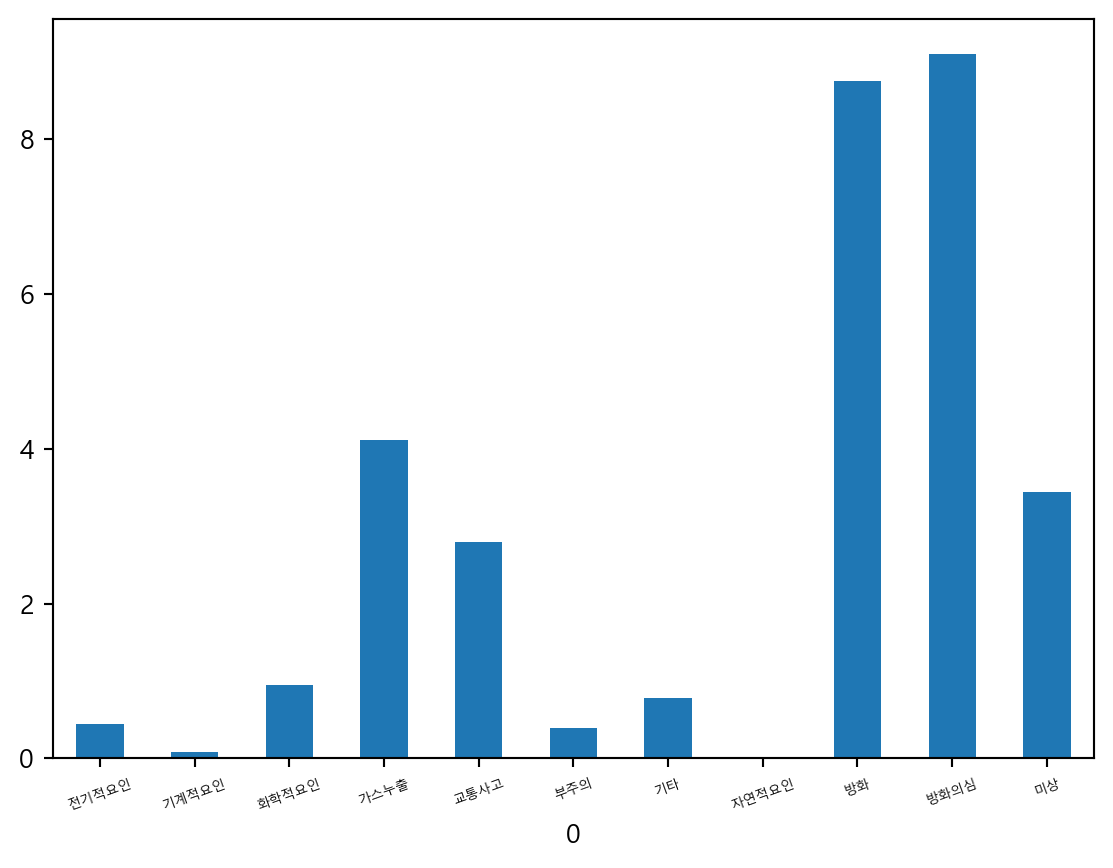
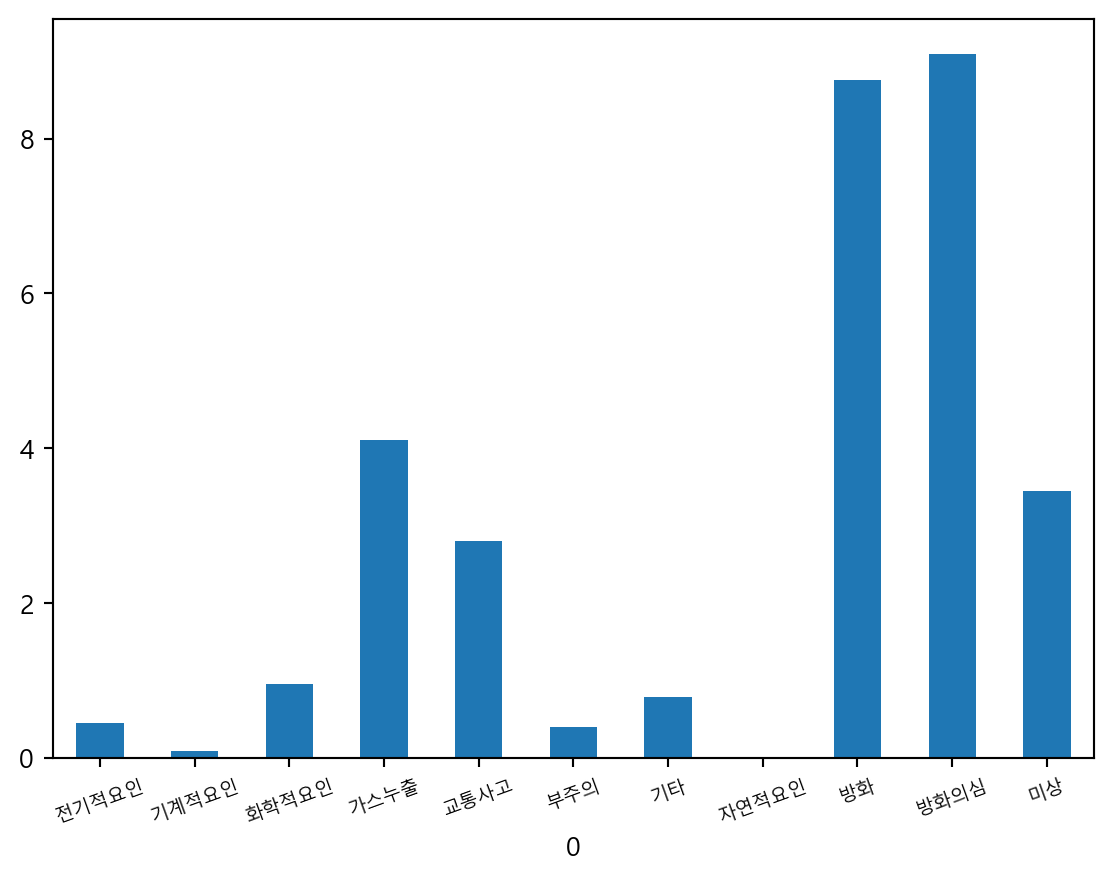
update

diff --git a/docs/fire_presentation.html b/docs/fire_presentation.html
@@ -213,7 +213,7 @@ pre > code.sourceCode > span > a:first-child::before { text-decoration: underlin
 <h2 class="anchored" data-anchor-id="계절별-화재발생-빈도">1. 계절별 화재발생 빈도</h2>
 <section id="section" class="level3">
 <h3 class="anchored" data-anchor-id="section">&lt;데이터 설명&gt;</h3>
-<div id="9fbafc4d" class="cell" data-execution_count="1">
+<div id="92201002" class="cell" data-execution_count="1">
 <div class="sourceCode cell-code" id="cb1"><pre class="sourceCode python code-with-copy"><code class="sourceCode python"><span id="cb1-1"><a href="#cb1-1" aria-hidden="true" tabindex="-1"></a><span class="im">import</span> pandas <span class="im">as</span> pd</span>
 <span id="cb1-2"><a href="#cb1-2" aria-hidden="true" tabindex="-1"></a><span class="im">import</span> numpy <span class="im">as</span> np</span>
 <span id="cb1-3"><a href="#cb1-3" aria-hidden="true" tabindex="-1"></a>df <span class="op">=</span> pd.read_csv(<span class="st">"data/fire.csv"</span>)</span>
@@ -384,7 +384,7 @@ pre > code.sourceCode > span > a:first-child::before { text-decoration: underlin
 <ul>
 <li>연도별로 분리</li>
 </ul>
-<div id="a6cad722" class="cell" data-execution_count="2">
+<div id="78e49982" class="cell" data-execution_count="2">
 <div class="sourceCode cell-code" id="cb2"><pre class="sourceCode python code-with-copy"><code class="sourceCode python"><span id="cb2-1"><a href="#cb2-1" aria-hidden="true" tabindex="-1"></a>data_2020 <span class="op">=</span> df[[<span class="st">'항목'</span>] <span class="op">+</span> df.<span class="bu">filter</span>(like<span class="op">=</span><span class="st">'2020'</span>).columns.tolist()]</span>
 <span id="cb2-2"><a href="#cb2-2" aria-hidden="true" tabindex="-1"></a></span>
 <span id="cb2-3"><a href="#cb2-3" aria-hidden="true" tabindex="-1"></a>data_2021 <span class="op">=</span> df[[<span class="st">'항목'</span>] <span class="op">+</span> df.<span class="bu">filter</span>(like<span class="op">=</span><span class="st">'2021'</span>).columns.tolist()]</span>
@@ -512,7 +512,7 @@ pre > code.sourceCode > span > a:first-child::before { text-decoration: underlin
 <ul>
 <li>2022년의 제품결함 열 삭제</li>
 </ul>
-<div id="bf269909" class="cell" data-execution_count="3">
+<div id="4e2928d1" class="cell" data-execution_count="3">
 <div class="sourceCode cell-code" id="cb3"><pre class="sourceCode python code-with-copy"><code class="sourceCode python"><span id="cb3-1"><a href="#cb3-1" aria-hidden="true" tabindex="-1"></a>data_2022 <span class="op">=</span> data_2022.drop(columns <span class="op">=</span> <span class="st">"2022.11"</span>)</span>
 <span id="cb3-2"><a href="#cb3-2" aria-hidden="true" tabindex="-1"></a>data_2022.head()</span></code><button title="Copy to Clipboard" class="code-copy-button"><i class="bi"></i></button></pre></div>
 <div class="cell-output cell-output-display" data-execution_count="3">
@@ -629,7 +629,7 @@ pre > code.sourceCode > span > a:first-child::before { text-decoration: underlin
 <ul>
 <li>0번째 행을 column으로 지정</li>
 </ul>
-<div id="b50230e3" class="cell" data-execution_count="4">
+<div id="05d2f780" class="cell" data-execution_count="4">
 <div class="sourceCode cell-code" id="cb4"><pre class="sourceCode python code-with-copy"><code class="sourceCode python"><span id="cb4-1"><a href="#cb4-1" aria-hidden="true" tabindex="-1"></a>data_2020.columns <span class="op">=</span> data_2020.iloc[<span class="dv">0</span>] </span>
 <span id="cb4-2"><a href="#cb4-2" aria-hidden="true" tabindex="-1"></a></span>
 <span id="cb4-3"><a href="#cb4-3" aria-hidden="true" tabindex="-1"></a>data_2021.columns <span class="op">=</span> data_2021.iloc[<span class="dv">0</span>] </span>
@@ -751,7 +751,7 @@ pre > code.sourceCode > span > a:first-child::before { text-decoration: underlin
 <ul>
 <li>0행, 1행 삭제 후 인덱스 초기화</li>
 </ul>
-<div id="e8a2680b" class="cell" data-execution_count="5">
+<div id="e713154d" class="cell" data-execution_count="5">
 <div class="sourceCode cell-code" id="cb5"><pre class="sourceCode python code-with-copy"><code class="sourceCode python"><span id="cb5-1"><a href="#cb5-1" aria-hidden="true" tabindex="-1"></a>data_2020 <span class="op">=</span> data_2020[<span class="dv">2</span>:]</span>
 <span id="cb5-2"><a href="#cb5-2" aria-hidden="true" tabindex="-1"></a>data_2020 <span class="op">=</span> data_2020.reset_index(drop<span class="op">=</span><span class="va">True</span>)</span>
 <span id="cb5-3"><a href="#cb5-3" aria-hidden="true" tabindex="-1"></a></span>
@@ -876,7 +876,7 @@ pre > code.sourceCode > span > a:first-child::before { text-decoration: underlin
 <ul>
 <li>데이터타입이 object로 되어 있음</li>
 </ul>
-<div id="e873439f" class="cell" data-execution_count="6">
+<div id="d3b2feac" class="cell" data-execution_count="6">
 <div class="sourceCode cell-code" id="cb6"><pre class="sourceCode python code-with-copy"><code class="sourceCode python"><span id="cb6-1"><a href="#cb6-1" aria-hidden="true" tabindex="-1"></a>data_2022.info()</span></code><button title="Copy to Clipboard" class="code-copy-button"><i class="bi"></i></button></pre></div>
 <div class="cell-output cell-output-stdout">
 <pre><code>&lt;class 'pandas.core.frame.DataFrame'&gt;
@@ -905,7 +905,7 @@ memory usage: 1.3+ KB</code></pre>
 <ul>
 <li>for문을 사용해 데이터타입을 int로 변경</li>
 </ul>
-<div id="0608bfc2" class="cell" data-execution_count="7">
+<div id="eae44d75" class="cell" data-execution_count="7">
 <div class="sourceCode cell-code" id="cb8"><pre class="sourceCode python code-with-copy"><code class="sourceCode python"><span id="cb8-1"><a href="#cb8-1" aria-hidden="true" tabindex="-1"></a>columns_to_convert <span class="op">=</span> [<span class="st">'계'</span>, <span class="st">'전기적요인'</span>, <span class="st">'기계적요인'</span>,</span>
 <span id="cb8-2"><a href="#cb8-2" aria-hidden="true" tabindex="-1"></a>                <span class="st">'화학적요인'</span>, <span class="st">'가스누출'</span>, <span class="st">'교통사고'</span>, <span class="st">'부주의'</span>, <span class="st">'기타'</span>,</span>
 <span id="cb8-3"><a href="#cb8-3" aria-hidden="true" tabindex="-1"></a>                <span class="st">'자연적요인'</span>, <span class="st">'방화'</span>, <span class="st">'방화의심'</span>, <span class="st">'미상'</span>]</span>
@@ -950,7 +950,7 @@ memory usage: 1.3+ KB</code></pre>
 <p>봄: 3월, 4월, 5월<br> 여름: 6월, 7월, 8월<br> 가을: 9월, 10월, 11월<br> 겨울: 12월, 1월, 2월</p>
 </blockquote></li>
 </ul>
-<div id="4161c68c" class="cell" data-execution_count="8">
+<div id="1f8079c1" class="cell" data-execution_count="8">
 <div class="sourceCode cell-code" id="cb10"><pre class="sourceCode python code-with-copy"><code class="sourceCode python"><span id="cb10-1"><a href="#cb10-1" aria-hidden="true" tabindex="-1"></a>data_2020[<span class="st">"계절"</span>] <span class="op">=</span> np.where(data_2020[<span class="st">"항목"</span>]<span class="op">\</span></span>
 <span id="cb10-2"><a href="#cb10-2" aria-hidden="true" tabindex="-1"></a>                    .isin([<span class="st">"3월"</span>, <span class="st">"4월"</span>, <span class="st">"5월"</span>]),<span class="st">"spring"</span>,</span>
 <span id="cb10-3"><a href="#cb10-3" aria-hidden="true" tabindex="-1"></a>                    np.where(data_2020[<span class="st">"항목"</span>]<span class="op">\</span></span>
@@ -1093,7 +1093,7 @@ memory usage: 1.3+ KB</code></pre>
 <ul>
 <li>계절별 화재 횟수 데이터프레임 생성</li>
 </ul>
-<div id="9360b15a" class="cell" data-execution_count="9">
+<div id="f58a9a13" class="cell" data-execution_count="9">
 <div class="sourceCode cell-code" id="cb11"><pre class="sourceCode python code-with-copy"><code class="sourceCode python"><span id="cb11-1"><a href="#cb11-1" aria-hidden="true" tabindex="-1"></a>season_20 <span class="op">=</span> data_2020.groupby(<span class="st">'계절'</span>).agg(sum2020<span class="op">=</span>(<span class="st">'계'</span>,<span class="st">'sum'</span>))</span>
 <span id="cb11-2"><a href="#cb11-2" aria-hidden="true" tabindex="-1"></a></span>
 <span id="cb11-3"><a href="#cb11-3" aria-hidden="true" tabindex="-1"></a>season_21 <span class="op">=</span> data_2021.groupby(<span class="st">'계절'</span>).agg(sum2021<span class="op">=</span>(<span class="st">'계'</span>,<span class="st">'sum'</span>))</span>
@@ -1143,7 +1143,7 @@ memory usage: 1.3+ KB</code></pre>
 <ul>
 <li>데이터 합치기 (‘concat’ 함수이용)</li>
 </ul>
-<div id="b0b863a8" class="cell" data-execution_count="10">
+<div id="291cfd7a" class="cell" data-execution_count="10">
 <div class="sourceCode cell-code" id="cb12"><pre class="sourceCode python code-with-copy"><code class="sourceCode python"><span id="cb12-1"><a href="#cb12-1" aria-hidden="true" tabindex="-1"></a>season <span class="op">=</span> pd.concat([season_20,season_21,season_22], axis<span class="op">=</span><span class="dv">1</span>)</span>
 <span id="cb12-2"><a href="#cb12-2" aria-hidden="true" tabindex="-1"></a>season</span></code><button title="Copy to Clipboard" class="code-copy-button"><i class="bi"></i></button></pre></div>
 <div class="cell-output cell-output-display" data-execution_count="10">
@@ -1200,7 +1200,7 @@ memory usage: 1.3+ KB</code></pre>
 <ul>
 <li>계절 순서를 ‘봄’, ‘여름’, ‘가을’, ’겨울’로 정렬</li>
 </ul>
-<div id="5de9d922" class="cell" data-execution_count="11">
+<div id="5d96a156" class="cell" data-execution_count="11">
 <div class="sourceCode cell-code" id="cb13"><pre class="sourceCode python code-with-copy"><code class="sourceCode python"><span id="cb13-1"><a href="#cb13-1" aria-hidden="true" tabindex="-1"></a>season <span class="op">=</span> season.loc[[<span class="st">'spring'</span>, <span class="st">'summer'</span>, <span class="st">'fall'</span>, <span class="st">'winter'</span>]]</span>
 <span id="cb13-2"><a href="#cb13-2" aria-hidden="true" tabindex="-1"></a>season</span></code><button title="Copy to Clipboard" class="code-copy-button"><i class="bi"></i></button></pre></div>
 <div class="cell-output cell-output-display" data-execution_count="11">
@@ -1260,7 +1260,7 @@ memory usage: 1.3+ KB</code></pre>
 <ul>
 <li>계절별 화재발생 선 그래프 생성</li>
 </ul>
-<div id="532994fd" class="cell" data-execution_count="12">
+<div id="5430fe3b" class="cell" data-execution_count="12">
 <div class="sourceCode cell-code" id="cb14"><pre class="sourceCode python code-with-copy"><code class="sourceCode python"><span id="cb14-1"><a href="#cb14-1" aria-hidden="true" tabindex="-1"></a><span class="im">import</span> matplotlib.pyplot <span class="im">as</span> plt</span>
 <span id="cb14-2"><a href="#cb14-2" aria-hidden="true" tabindex="-1"></a></span>
 <span id="cb14-3"><a href="#cb14-3" aria-hidden="true" tabindex="-1"></a>plt.figure(figsize<span class="op">=</span>(<span class="dv">6</span>, <span class="dv">6</span>))</span>
@@ -1299,7 +1299,7 @@ memory usage: 1.3+ KB</code></pre>
 <ul>
 <li>다시 한번 데이터 확인해보기 <br></li>
 </ul>
-<div id="c7c1f218" class="cell" data-execution_count="13">
+<div id="6a336332" class="cell" data-execution_count="13">
 <div class="sourceCode cell-code" id="cb16"><pre class="sourceCode python code-with-copy"><code class="sourceCode python"><span id="cb16-1"><a href="#cb16-1" aria-hidden="true" tabindex="-1"></a>data_2022.head</span></code><button title="Copy to Clipboard" class="code-copy-button"><i class="bi"></i></button></pre></div>
 <div class="cell-output cell-output-display" data-execution_count="13">
 <pre><code>&lt;bound method NDFrame.head of 0    항목     계  전기적요인  기계적요인  화학적요인  가스누출  교통사고   부주의  기타  자연적요인  방화  방화의심  \
@@ -1335,7 +1335,7 @@ memory usage: 1.3+ KB</code></pre>
 <ul>
 <li>데이터 합치기 (‘concat’ 함수이용)</li>
 </ul>
-<div id="efec3fea" class="cell" data-execution_count="14">
+<div id="2cadf172" class="cell" data-execution_count="14">
 <div class="sourceCode cell-code" id="cb18"><pre class="sourceCode python code-with-copy"><code class="sourceCode python"><span id="cb18-1"><a href="#cb18-1" aria-hidden="true" tabindex="-1"></a>data_all <span class="op">=</span> pd.concat([data_2020, data_2021,data_2022])</span>
 <span id="cb18-2"><a href="#cb18-2" aria-hidden="true" tabindex="-1"></a>data_all</span></code><button title="Copy to Clipboard" class="code-copy-button"><i class="bi"></i></button></pre></div>
 <div class="cell-output cell-output-display" data-execution_count="14">
@@ -1985,7 +1985,7 @@ memory usage: 1.3+ KB</code></pre>
 <ul>
 <li>필요없는 열 제거</li>
 </ul>
-<div id="75ba38f3" class="cell" data-execution_count="15">
+<div id="d74b9a68" class="cell" data-execution_count="15">
 <div class="sourceCode cell-code" id="cb19"><pre class="sourceCode python code-with-copy"><code class="sourceCode python"><span id="cb19-1"><a href="#cb19-1" aria-hidden="true" tabindex="-1"></a>data_all <span class="op">=</span> data_all.drop(columns<span class="op">=</span>[<span class="st">'계'</span>])</span>
 <span id="cb19-2"><a href="#cb19-2" aria-hidden="true" tabindex="-1"></a>data_all.head(<span class="dv">3</span>)</span></code><button title="Copy to Clipboard" class="code-copy-button"><i class="bi"></i></button></pre></div>
 <div class="cell-output cell-output-display" data-execution_count="15">
@@ -2070,7 +2070,7 @@ memory usage: 1.3+ KB</code></pre>
 <ul>
 <li>요인별 평균 내기</li>
 </ul>
-<div id="5a1ad5a0" class="cell" data-execution_count="16">
+<div id="d9b28610" class="cell" data-execution_count="16">
 <div class="sourceCode cell-code" id="cb20"><pre class="sourceCode python code-with-copy"><code class="sourceCode python"><span id="cb20-1"><a href="#cb20-1" aria-hidden="true" tabindex="-1"></a><span class="co"># 행과 열 바꿔줌</span></span>
 <span id="cb20-2"><a href="#cb20-2" aria-hidden="true" tabindex="-1"></a>data_all <span class="op">=</span> data_all.transpose()</span>
 <span id="cb20-3"><a href="#cb20-3" aria-hidden="true" tabindex="-1"></a>data_all.head()</span></code><button title="Copy to Clipboard" class="code-copy-button"><i class="bi"></i></button></pre></div>
@@ -2257,7 +2257,7 @@ memory usage: 1.3+ KB</code></pre>
 </div>
 </div>
 </div>
-<div id="15407c59" class="cell" data-execution_count="17">
+<div id="bce2e468" class="cell" data-execution_count="17">
 <div class="sourceCode cell-code" id="cb21"><pre class="sourceCode python code-with-copy"><code class="sourceCode python"><span id="cb21-1"><a href="#cb21-1" aria-hidden="true" tabindex="-1"></a><span class="co"># 필요없는 열 제거</span></span>
 <span id="cb21-2"><a href="#cb21-2" aria-hidden="true" tabindex="-1"></a>data_all <span class="op">=</span> data_all.drop(<span class="st">"항목"</span>, axis<span class="op">=</span><span class="dv">0</span>)</span>
 <span id="cb21-3"><a href="#cb21-3" aria-hidden="true" tabindex="-1"></a>data_all <span class="op">=</span> data_all.drop(<span class="st">"계절"</span>, axis<span class="op">=</span><span class="dv">0</span>)</span>
@@ -2445,7 +2445,7 @@ memory usage: 1.3+ KB</code></pre>
 </div>
 </div>
 </div>
-<div id="9761292b" class="cell" data-execution_count="18">
+<div id="32b693f4" class="cell" data-execution_count="18">
 <div class="sourceCode cell-code" id="cb22"><pre class="sourceCode python code-with-copy"><code class="sourceCode python"><span id="cb22-1"><a href="#cb22-1" aria-hidden="true" tabindex="-1"></a><span class="co"># 데이터타입이 object로 되어 있음</span></span>
 <span id="cb22-2"><a href="#cb22-2" aria-hidden="true" tabindex="-1"></a>data_all.info()</span></code><button title="Copy to Clipboard" class="code-copy-button"><i class="bi"></i></button></pre></div>
 <div class="cell-output cell-output-stdout">
@@ -2495,7 +2495,7 @@ memory usage: 3.2+ KB</code></pre>
 </div>
 </div>
 <p><br></p>
-<div id="ec3d6396" class="cell" data-execution_count="19">
+<div id="ff2d4e90" class="cell" data-execution_count="19">
 <div class="sourceCode cell-code" id="cb24"><pre class="sourceCode python code-with-copy"><code class="sourceCode python"><span id="cb24-1"><a href="#cb24-1" aria-hidden="true" tabindex="-1"></a><span class="co"># 데이터타입을 int로 변경</span></span>
 <span id="cb24-2"><a href="#cb24-2" aria-hidden="true" tabindex="-1"></a>data_all<span class="op">=</span>data_all.astype(<span class="bu">int</span>)</span>
 <span id="cb24-3"><a href="#cb24-3" aria-hidden="true" tabindex="-1"></a>data_all.info()</span></code><button title="Copy to Clipboard" class="code-copy-button"><i class="bi"></i></button></pre></div>
@@ -2549,7 +2549,7 @@ memory usage: 3.2+ KB</code></pre>
 <ul>
 <li>1년동안 일어나는 요인별 화재건수를 ’total’열 생성(3년 평균)</li>
 </ul>
-<div id="5da50b4f" class="cell" data-execution_count="20">
+<div id="b327d9c1" class="cell" data-execution_count="20">
 <div class="sourceCode cell-code" id="cb26"><pre class="sourceCode python code-with-copy"><code class="sourceCode python"><span id="cb26-1"><a href="#cb26-1" aria-hidden="true" tabindex="-1"></a>data_all[<span class="st">"total"</span>] <span class="op">=</span> data_all.<span class="bu">sum</span>(axis<span class="op">=</span><span class="dv">1</span>)<span class="op">/</span><span class="dv">3</span></span>
 <span id="cb26-2"><a href="#cb26-2" aria-hidden="true" tabindex="-1"></a>data_all.head()</span></code><button title="Copy to Clipboard" class="code-copy-button"><i class="bi"></i></button></pre></div>
 <div class="cell-output cell-output-display" data-execution_count="20">
@@ -2735,7 +2735,7 @@ memory usage: 3.2+ KB</code></pre>
 </div>
 </div>
 </div>
-<div id="ff17a3a0" class="cell" data-execution_count="21">
+<div id="09af2402" class="cell" data-execution_count="21">
 <div class="sourceCode cell-code" id="cb27"><pre class="sourceCode python code-with-copy"><code class="sourceCode python"><span id="cb27-1"><a href="#cb27-1" aria-hidden="true" tabindex="-1"></a><span class="co">## 한글</span></span>
 <span id="cb27-2"><a href="#cb27-2" aria-hidden="true" tabindex="-1"></a><span class="im">from</span> matplotlib <span class="im">import</span> font_manager, rc</span>
 <span id="cb27-3"><a href="#cb27-3" aria-hidden="true" tabindex="-1"></a></span>
@@ -2750,7 +2750,7 @@ memory usage: 3.2+ KB</code></pre>
 <ul>
 <li>요인별 화재건수</li>
 </ul>
-<div id="63c74f69" class="cell" data-execution_count="22">
+<div id="f4046de2" class="cell" data-execution_count="22">
 <div class="sourceCode cell-code" id="cb28"><pre class="sourceCode python code-with-copy"><code class="sourceCode python"><span id="cb28-1"><a href="#cb28-1" aria-hidden="true" tabindex="-1"></a>data_all[<span class="st">"total"</span>].plot.bar(rot<span class="op">=</span><span class="dv">0</span>)</span>
 <span id="cb28-2"><a href="#cb28-2" aria-hidden="true" tabindex="-1"></a>plt.xticks(fontsize<span class="op">=</span><span class="dv">7</span>, rotation<span class="op">=</span><span class="dv">45</span>)</span>
 <span id="cb28-3"><a href="#cb28-3" aria-hidden="true" tabindex="-1"></a>plt.show()</span>
@@ -2780,7 +2780,7 @@ memory usage: 3.2+ KB</code></pre>
 <h2 class="anchored" data-anchor-id="요인별-인명피해">3. 요인별 인명피해</h2>
 <section id="section-7" class="level3">
 <h3 class="anchored" data-anchor-id="section-7">&lt;데이터 설명&gt;</h3>
-<div id="cd84f2f0" class="cell" data-execution_count="23">
+<div id="5473b30c" class="cell" data-execution_count="23">
 <div class="sourceCode cell-code" id="cb30"><pre class="sourceCode python code-with-copy"><code class="sourceCode python"><span id="cb30-1"><a href="#cb30-1" aria-hidden="true" tabindex="-1"></a>damage <span class="op">=</span> pd.read_csv(<span class="st">"data/di.csv"</span>)</span>
 <span id="cb30-2"><a href="#cb30-2" aria-hidden="true" tabindex="-1"></a>damage</span></code><button title="Copy to Clipboard" class="code-copy-button"><i class="bi"></i></button></pre></div>
 <div class="cell-output cell-output-display" data-execution_count="23">
@@ -3189,7 +3189,7 @@ memory usage: 3.2+ KB</code></pre>
 <ul>
 <li>연도별로 분리</li>
 </ul>
-<div id="1731bc0c" class="cell" data-execution_count="24">
+<div id="d4d5d96c" class="cell" data-execution_count="24">
 <div class="sourceCode cell-code" id="cb31"><pre class="sourceCode python code-with-copy"><code class="sourceCode python"><span id="cb31-1"><a href="#cb31-1" aria-hidden="true" tabindex="-1"></a>damage_20 <span class="op">=</span> damage[[<span class="st">'항목'</span>] <span class="op">+</span> damage.<span class="bu">filter</span>(like<span class="op">=</span><span class="st">'2020'</span>).columns.tolist()]</span>
 <span id="cb31-2"><a href="#cb31-2" aria-hidden="true" tabindex="-1"></a>damage_21 <span class="op">=</span> damage[[<span class="st">'항목'</span>] <span class="op">+</span> damage.<span class="bu">filter</span>(like<span class="op">=</span><span class="st">'2021'</span>).columns.tolist()]</span>
 <span id="cb31-3"><a href="#cb31-3" aria-hidden="true" tabindex="-1"></a>damage_22 <span class="op">=</span> damage[[<span class="st">'항목'</span>] <span class="op">+</span> damage.<span class="bu">filter</span>(like<span class="op">=</span><span class="st">'2022'</span>).columns.tolist()]</span>
@@ -3358,7 +3358,7 @@ memory usage: 3.2+ KB</code></pre>
 <ul>
 <li>행 올리기 (반복되는 기존 열 삭제 및 첫번째 행 올리기)</li>
 </ul>
-<div id="1278724a" class="cell" data-execution_count="25">
+<div id="911b9df5" class="cell" data-execution_count="25">
 <div class="sourceCode cell-code" id="cb33"><pre class="sourceCode python code-with-copy"><code class="sourceCode python"><span id="cb33-1"><a href="#cb33-1" aria-hidden="true" tabindex="-1"></a>damage_20.columns <span class="op">=</span> damage_20.iloc[<span class="dv">0</span>]</span>
 <span id="cb33-2"><a href="#cb33-2" aria-hidden="true" tabindex="-1"></a>damage_20 <span class="op">=</span> damage_20[<span class="dv">1</span>:<span class="dv">3</span>]</span>
 <span id="cb33-3"><a href="#cb33-3" aria-hidden="true" tabindex="-1"></a>damage_20 <span class="op">=</span> damage_20.reset_index(drop<span class="op">=</span><span class="va">True</span>)</span>
@@ -3466,7 +3466,7 @@ memory usage: 3.2+ KB</code></pre>
 <ul>
 <li>행열 전환</li>
 </ul>
-<div id="9bed15c1" class="cell" data-execution_count="26">
+<div id="e9061b56" class="cell" data-execution_count="26">
 <div class="sourceCode cell-code" id="cb34"><pre class="sourceCode python code-with-copy"><code class="sourceCode python"><span id="cb34-1"><a href="#cb34-1" aria-hidden="true" tabindex="-1"></a>damage_20 <span class="op">=</span> damage_20.transpose()</span>
 <span id="cb34-2"><a href="#cb34-2" aria-hidden="true" tabindex="-1"></a></span>
 <span id="cb34-3"><a href="#cb34-3" aria-hidden="true" tabindex="-1"></a>damage_21 <span class="op">=</span> damage_21.transpose()</span>
@@ -3527,7 +3527,7 @@ memory usage: 3.2+ KB</code></pre>
 <ul>
 <li>데이터 합치기 (‘concat’ 함수이용)</li>
 </ul>
-<div id="12b91fe9" class="cell" data-execution_count="27">
+<div id="8a0861a9" class="cell" data-execution_count="27">
 <div class="sourceCode cell-code" id="cb35"><pre class="sourceCode python code-with-copy"><code class="sourceCode python"><span id="cb35-1"><a href="#cb35-1" aria-hidden="true" tabindex="-1"></a>damage_total <span class="op">=</span> pd.concat([damage_20, damage_21[<span class="dv">1</span>], damage_22[<span class="dv">1</span>]], axis<span class="op">=</span><span class="dv">1</span>)</span>
 <span id="cb35-2"><a href="#cb35-2" aria-hidden="true" tabindex="-1"></a>    </span>
 <span id="cb35-3"><a href="#cb35-3" aria-hidden="true" tabindex="-1"></a>damage_total <span class="op">=</span> damage_total.drop(<span class="dv">0</span>, axis<span class="op">=</span><span class="dv">1</span>)</span>
@@ -3593,7 +3593,7 @@ memory usage: 3.2+ KB</code></pre>
 <ul>
 <li>계산 가능한 숫자형 데이터로 전환하기</li>
 </ul>
-<div id="dffd12fb" class="cell" data-execution_count="28">
+<div id="167d2d04" class="cell" data-execution_count="28">
 <div class="sourceCode cell-code" id="cb36"><pre class="sourceCode python code-with-copy"><code class="sourceCode python"><span id="cb36-1"><a href="#cb36-1" aria-hidden="true" tabindex="-1"></a>damage_total<span class="op">=</span>damage_total.astype(<span class="bu">int</span>)</span>
 <span id="cb36-2"><a href="#cb36-2" aria-hidden="true" tabindex="-1"></a>damage_total.info()</span></code><button title="Copy to Clipboard" class="code-copy-button"><i class="bi"></i></button></pre></div>
 <div class="cell-output cell-output-stdout">
@@ -3613,7 +3613,7 @@ memory usage: 704.0+ bytes</code></pre>
 <ul>
 <li>사망 데이터 분류하기</li>
 </ul>
-<div id="dca35c64" class="cell" data-execution_count="29">
+<div id="847d2639" class="cell" data-execution_count="29">
 <div class="sourceCode cell-code" id="cb38"><pre class="sourceCode python code-with-copy"><code class="sourceCode python"><span id="cb38-1"><a href="#cb38-1" aria-hidden="true" tabindex="-1"></a>death <span class="op">=</span> damage_total.iloc[::<span class="dv">2</span>]</span>
 <span id="cb38-2"><a href="#cb38-2" aria-hidden="true" tabindex="-1"></a>death</span></code><button title="Copy to Clipboard" class="code-copy-button"><i class="bi"></i></button></pre></div>
 <div class="cell-output cell-output-display" data-execution_count="29">
@@ -3712,7 +3712,7 @@ memory usage: 704.0+ bytes</code></pre>
 <ul>
 <li>부상 데이터 분류하기</li>
 </ul>
-<div id="184df2f9" class="cell" data-execution_count="30">
+<div id="a6d8f401" class="cell" data-execution_count="30">
 <div class="sourceCode cell-code" id="cb39"><pre class="sourceCode python code-with-copy"><code class="sourceCode python"><span id="cb39-1"><a href="#cb39-1" aria-hidden="true" tabindex="-1"></a>injury <span class="op">=</span> damage_total.iloc[<span class="dv">1</span>::<span class="dv">2</span>]</span>
 <span id="cb39-2"><a href="#cb39-2" aria-hidden="true" tabindex="-1"></a>injury</span></code><button title="Copy to Clipboard" class="code-copy-button"><i class="bi"></i></button></pre></div>
 <div class="cell-output cell-output-display" data-execution_count="30">
@@ -3811,7 +3811,7 @@ memory usage: 704.0+ bytes</code></pre>
 <ul>
 <li>사망,부상별 합계 ,평균 변수 및 백분율 변수 추가하기</li>
 </ul>
-<div id="b9392f04" class="cell" data-execution_count="31">
+<div id="ae06c765" class="cell" data-execution_count="31">
 <div class="sourceCode cell-code" id="cb40"><pre class="sourceCode python code-with-copy"><code class="sourceCode python"><span id="cb40-1"><a href="#cb40-1" aria-hidden="true" tabindex="-1"></a>death_all <span class="op">=</span> death.assign(total <span class="op">=</span> death.<span class="bu">sum</span>(axis <span class="op">=</span> <span class="dv">1</span>),</span>
 <span id="cb40-2"><a href="#cb40-2" aria-hidden="true" tabindex="-1"></a>                         mean <span class="op">=</span> <span class="kw">lambda</span> x : x[<span class="st">"total"</span>] <span class="op">/</span> <span class="dv">3</span> ,</span>
 <span id="cb40-3"><a href="#cb40-3" aria-hidden="true" tabindex="-1"></a>                         ratio <span class="op">=</span> <span class="kw">lambda</span> x : (x[<span class="st">"mean"</span>] <span class="op">/</span> data_all[<span class="st">"total"</span>]) <span class="op">*</span> <span class="dv">100</span>)</span>
@@ -3905,15 +3905,15 @@ memory usage: 704.0+ bytes</code></pre>
 <ul>
 <li>총 화재 발생 대비 사망률 막대 그래프 생성</li>
 </ul>
-<div id="5d6b70b0" class="cell" data-execution_count="32">
+<div id="a49467ed" class="cell" data-execution_count="32">
 <div class="sourceCode cell-code" id="cb41"><pre class="sourceCode python code-with-copy"><code class="sourceCode python"><span id="cb41-1"><a href="#cb41-1" aria-hidden="true" tabindex="-1"></a>death_all[<span class="st">"ratio"</span>].plot.bar(rot<span class="op">=</span><span class="dv">0</span>)</span>
-<span id="cb41-2"><a href="#cb41-2" aria-hidden="true" tabindex="-1"></a>plt.xticks(fontsize<span class="op">=</span><span class="dv">5</span>, rotation<span class="op">=</span><span class="dv">20</span>)</span>
+<span id="cb41-2"><a href="#cb41-2" aria-hidden="true" tabindex="-1"></a>plt.xticks(fontsize<span class="op">=</span><span class="dv">7</span>, rotation<span class="op">=</span><span class="dv">20</span>)</span>
 <span id="cb41-3"><a href="#cb41-3" aria-hidden="true" tabindex="-1"></a>plt.show()</span>
 <span id="cb41-4"><a href="#cb41-4" aria-hidden="true" tabindex="-1"></a>plt.clf()</span></code><button title="Copy to Clipboard" class="code-copy-button"><i class="bi"></i></button></pre></div>
 <div class="cell-output cell-output-display">
 <div>
 <figure class="figure">
-<p><img src="fire_presentation_files/figure-html/cell-33-output-1.png" width="557" height="434" class="figure-img"></p>
+<p><img src="fire_presentation_files/figure-html/cell-33-output-1.png" width="557" height="441" class="figure-img"></p>
 </figure>
 </div>
 </div>
@@ -3928,15 +3928,15 @@ memory usage: 704.0+ bytes</code></pre>
 <ul>
 <li>총 화재 발생 대비 부상률 막대 그래프 생성</li>
 </ul>
-<div id="f9e18536" class="cell" data-execution_count="33">
+<div id="538d65e3" class="cell" data-execution_count="33">
 <div class="sourceCode cell-code" id="cb43"><pre class="sourceCode python code-with-copy"><code class="sourceCode python"><span id="cb43-1"><a href="#cb43-1" aria-hidden="true" tabindex="-1"></a>injury_all[<span class="st">"ratio"</span>].plot.bar(rot<span class="op">=</span><span class="dv">0</span>)</span>
-<span id="cb43-2"><a href="#cb43-2" aria-hidden="true" tabindex="-1"></a>plt.xticks(fontsize<span class="op">=</span><span class="dv">5</span>, rotation<span class="op">=</span><span class="dv">20</span>)</span>
+<span id="cb43-2"><a href="#cb43-2" aria-hidden="true" tabindex="-1"></a>plt.xticks(fontsize<span class="op">=</span><span class="dv">7</span>, rotation<span class="op">=</span><span class="dv">20</span>)</span>
 <span id="cb43-3"><a href="#cb43-3" aria-hidden="true" tabindex="-1"></a>plt.show()</span>
 <span id="cb43-4"><a href="#cb43-4" aria-hidden="true" tabindex="-1"></a>plt.clf()</span></code><button title="Copy to Clipboard" class="code-copy-button"><i class="bi"></i></button></pre></div>
 <div class="cell-output cell-output-display">
 <div>
 <figure class="figure">
-<p><img src="fire_presentation_files/figure-html/cell-34-output-1.png" width="564" height="434" class="figure-img"></p>
+<p><img src="fire_presentation_files/figure-html/cell-34-output-1.png" width="564" height="441" class="figure-img"></p>
 </figure>
 </div>
 </div>
